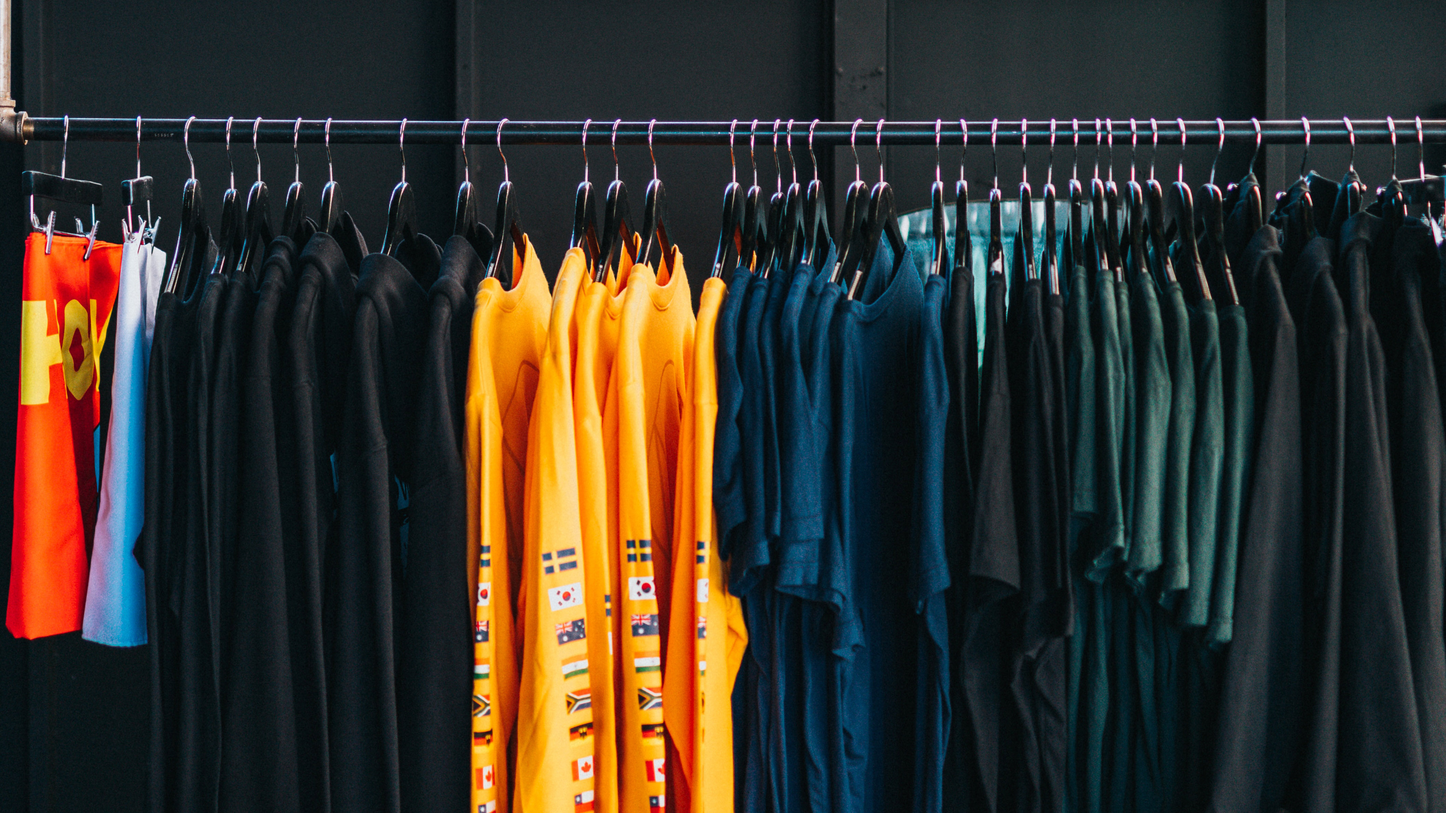
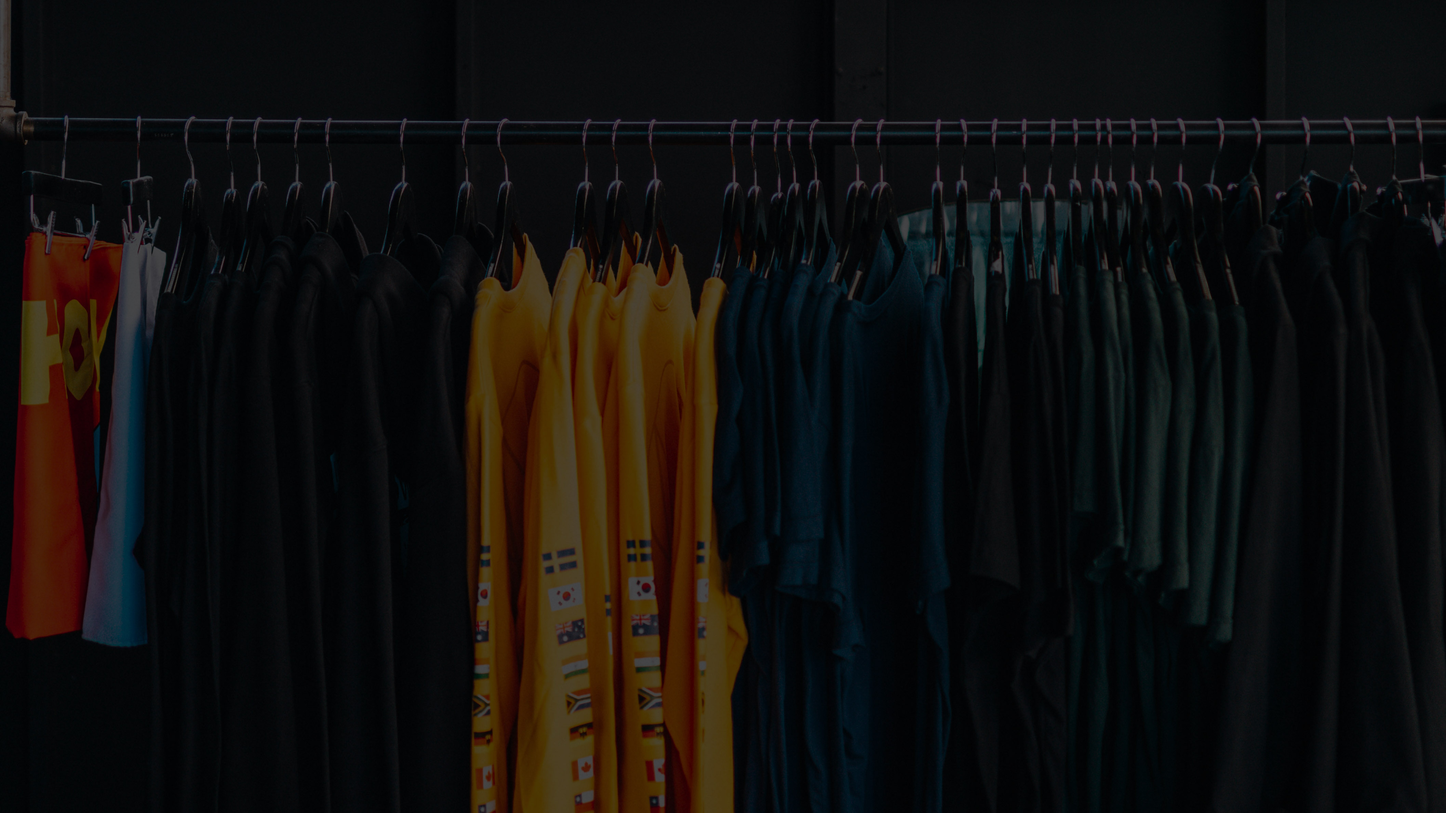
이미지 편집

diff --git a/css/common.css b/css/common.css
@@ -526,6 +526,22 @@ footer.footer-block {
     margin-bottom: 24px;
     font-size: 13px;
   }
+  .sub-title {
+    color: #fff;
+    text-align: center;
+    height: 360px;
+  }
+  .sub-title h1 {
+    margin-top: 68px;
+    font-weight: 200;
+    font-size: 36px;
+  }
+  .sub-title h2 {
+    font-size: 16px;
+    line-height: 170%;
+    font-weight: 300;
+    margin: 0;
+  }
   .contact-block {
     padding: 25px 0;
   }
@@ -537,27 +553,6 @@ footer.footer-block {
   }
   .contact-block .contact-item strong {
     font-size: 15px;
-  }
-  .sub-header .nav-custom {
-    display: inline-block;
-    position: fixed;
-    width: 100%;
-    top: 0;
-    right: 0;
-    list-style: none;
-    padding: 0;
-    text-align: right;
-  }
-  .sub-header .nav-custom li {
-    color: #909090;
-    height: 72px;
-    display: inline-block;
-    margin-left: -3px;
-    padding: 27px 16px 0 16px;
-    border-right: 1px solid rgba(255, 255, 255, 0.15);
-  }
-  .sub-header .nav-custom li:last-child {
-    border-right: 0;
   }
   .brand-block .brand-list-wrap li {
     width: 50%;

diff --git a/css/common.less b/css/common.less
@@ -468,6 +468,25 @@ footer.footer-block {
 		}
 	}
 
+	.sub-title {
+		color: #fff;
+		text-align: center;
+		height: 360px;
+
+		h1 {
+			margin-top: 68px;
+			font-weight: 200;
+			font-size: 36px;
+		}
+
+		h2 {
+			font-size: 16px;
+			line-height: 170%;
+			font-weight: 300;
+			margin: 0;
+		}
+	}
+
 	.contact-block {
 		padding: 25px 0;
 
@@ -480,32 +499,6 @@ footer.footer-block {
 
 			strong {
 				font-size: 15px;
-			}
-		}
-	}
-
-	.sub-header {
-		.nav-custom {
-			display: inline-block;
-			position: fixed;
-			width: 100%;
-			top: 0;
-			right: 0;
-			list-style: none;
-			padding: 0;
-			text-align: right;
-
-			li {
-				color: #909090;
-				height: 72px;
-				display: inline-block;
-				margin-left: -3px;
-				padding: 27px 16px 0 16px;
-				border-right: 1px solid rgba(255,255,255,0.15);
-			}
-
-			li:last-child {
-				border-right: 0;
 			}
 		}
 	}
